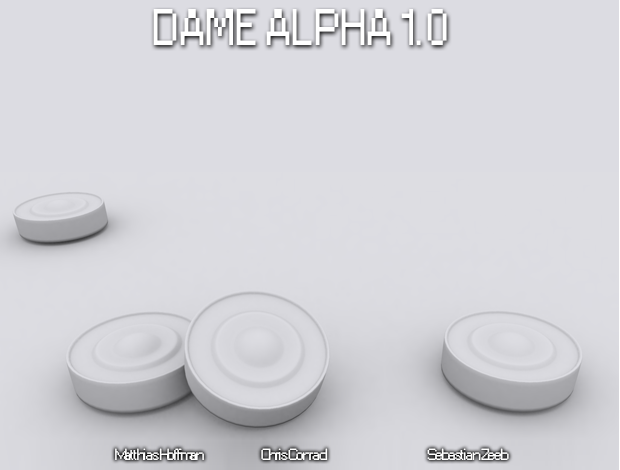
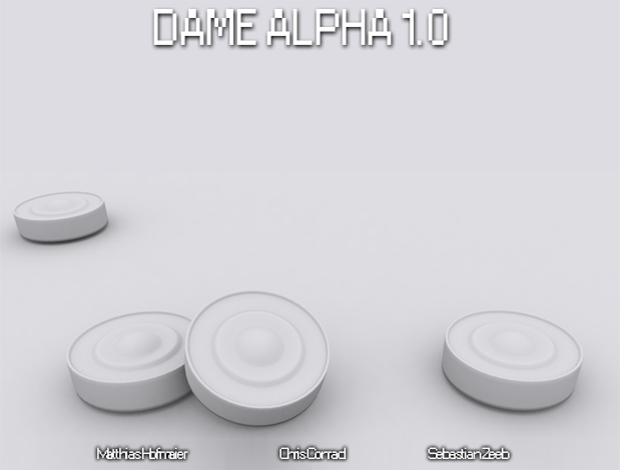
-Matthias Hofmaier, nicht Hoffmann :DD ups

diff --git a/DAME/src/GUI/StarteSpiel.java b/DAME/src/GUI/StarteSpiel.java
@@ -2,6 +2,6 @@ package GUI;
 
 public class StarteSpiel {
 public static void main(String[] args){
-	Menu m = new Menu("Startmenü");
+	Menu m = new Menu("Startmenue");
 }
 }
